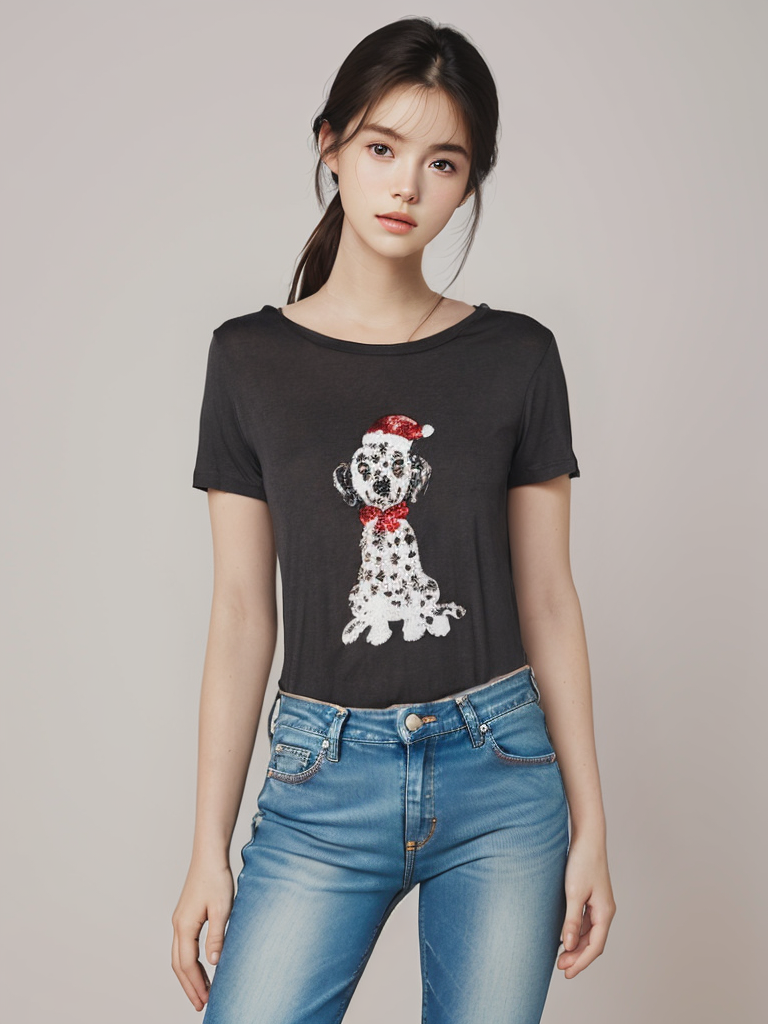
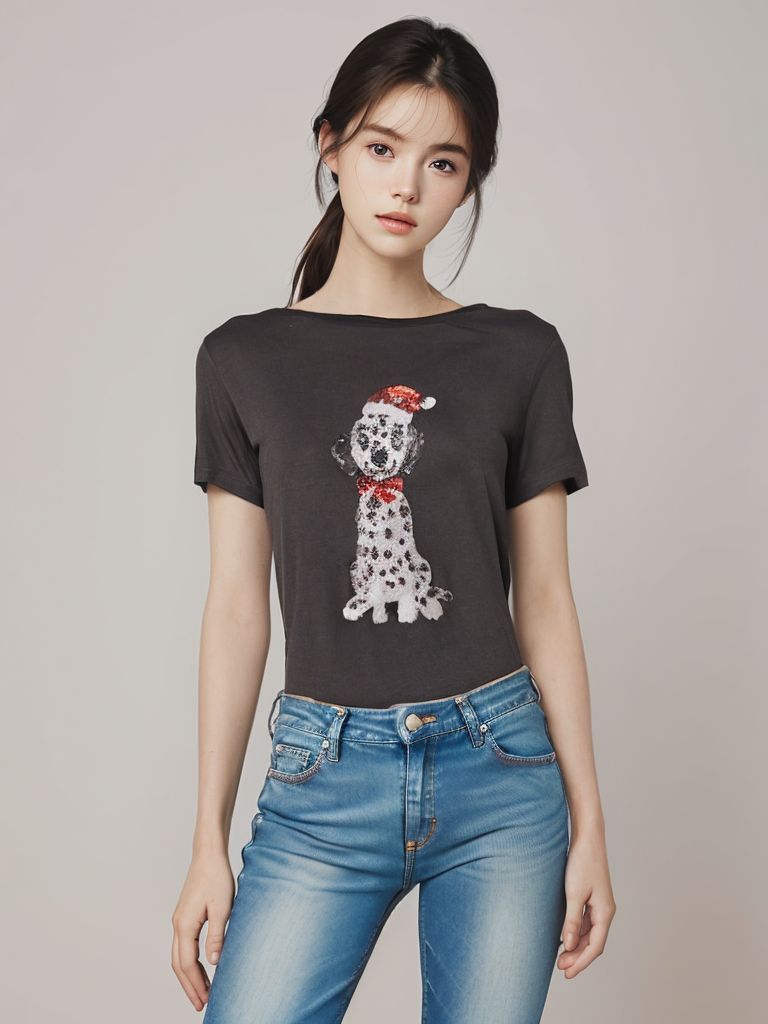
feat: optimize inference steps to 20, integrate smart_resize, and enhance API stream robustness

diff --git a/run/utils_wearcast.py b/run/utils_wearcast.py
@@ -141,3 +141,34 @@ def get_mask_location(model_type, category, model_parse: Image.Image, keypoint: 
     mask_gray = Image.fromarray(inpaint_mask.astype(np.uint8) * 127)
 
     return mask, mask_gray
+
+def smart_resize(img: Image.Image, target_size=(768, 1024), fill_color=(255, 255, 255)):
+    """
+    Resizes image while maintaining aspect ratio, adding padding to reach target_size.
+    This prevents the 'stretched' look common in naive resizing.
+    """
+    img_w, img_h = img.size
+    target_w, target_h = target_size
+    
+    # Calculate aspect ratios
+    aspect = img_w / img_h
+    target_aspect = target_w / target_h
+    
+    if aspect > target_aspect:
+        # Image is wider than target: fit to width
+        new_w = target_w
+        new_h = int(target_w / aspect)
+    else:
+        # Image is taller than target: fit to height
+        new_h = target_h
+        new_w = int(target_h * aspect)
+        
+    img_resized = img.resize((new_w, new_h), Image.LANCZOS)
+    
+    # Create background and paste
+    new_img = Image.new("RGB", target_size, fill_color)
+    paste_x = (target_w - new_w) // 2
+    paste_y = (target_h - new_h) // 2
+    new_img.paste(img_resized, (paste_x, paste_y))
+    
+    return new_img

diff --git a/wearcast/inference_wearcast_hd.py b/wearcast/inference_wearcast_hd.py
@@ -483,12 +483,11 @@ class WearCastHD:
 
     def get_optimal_params(self, category, is_complex_garment):
         if is_complex_garment:
-            # Complex/patterned garments require more steps for high accuracy (>98%)
-            # We use 40 steps and 2.5 scale for maximum detail retention
-            return {"num_steps": 40, "image_scale": 2.5}
+            # Complex/patterned garments: 30 steps for high quality
+            return {"num_steps": 30, "image_scale": 2.5}
         else:
-            # Simple/solid garments: increased steps (30) for better quality and realism
-            return {"num_steps": 30, "image_scale": 2.0}
+            # Simple/solid garments: 20 steps for speed and realism
+            return {"num_steps": 20, "image_scale": 2.0}
 
     def local_color_correction(self, generated, original_garment, mask_hard):
         """
